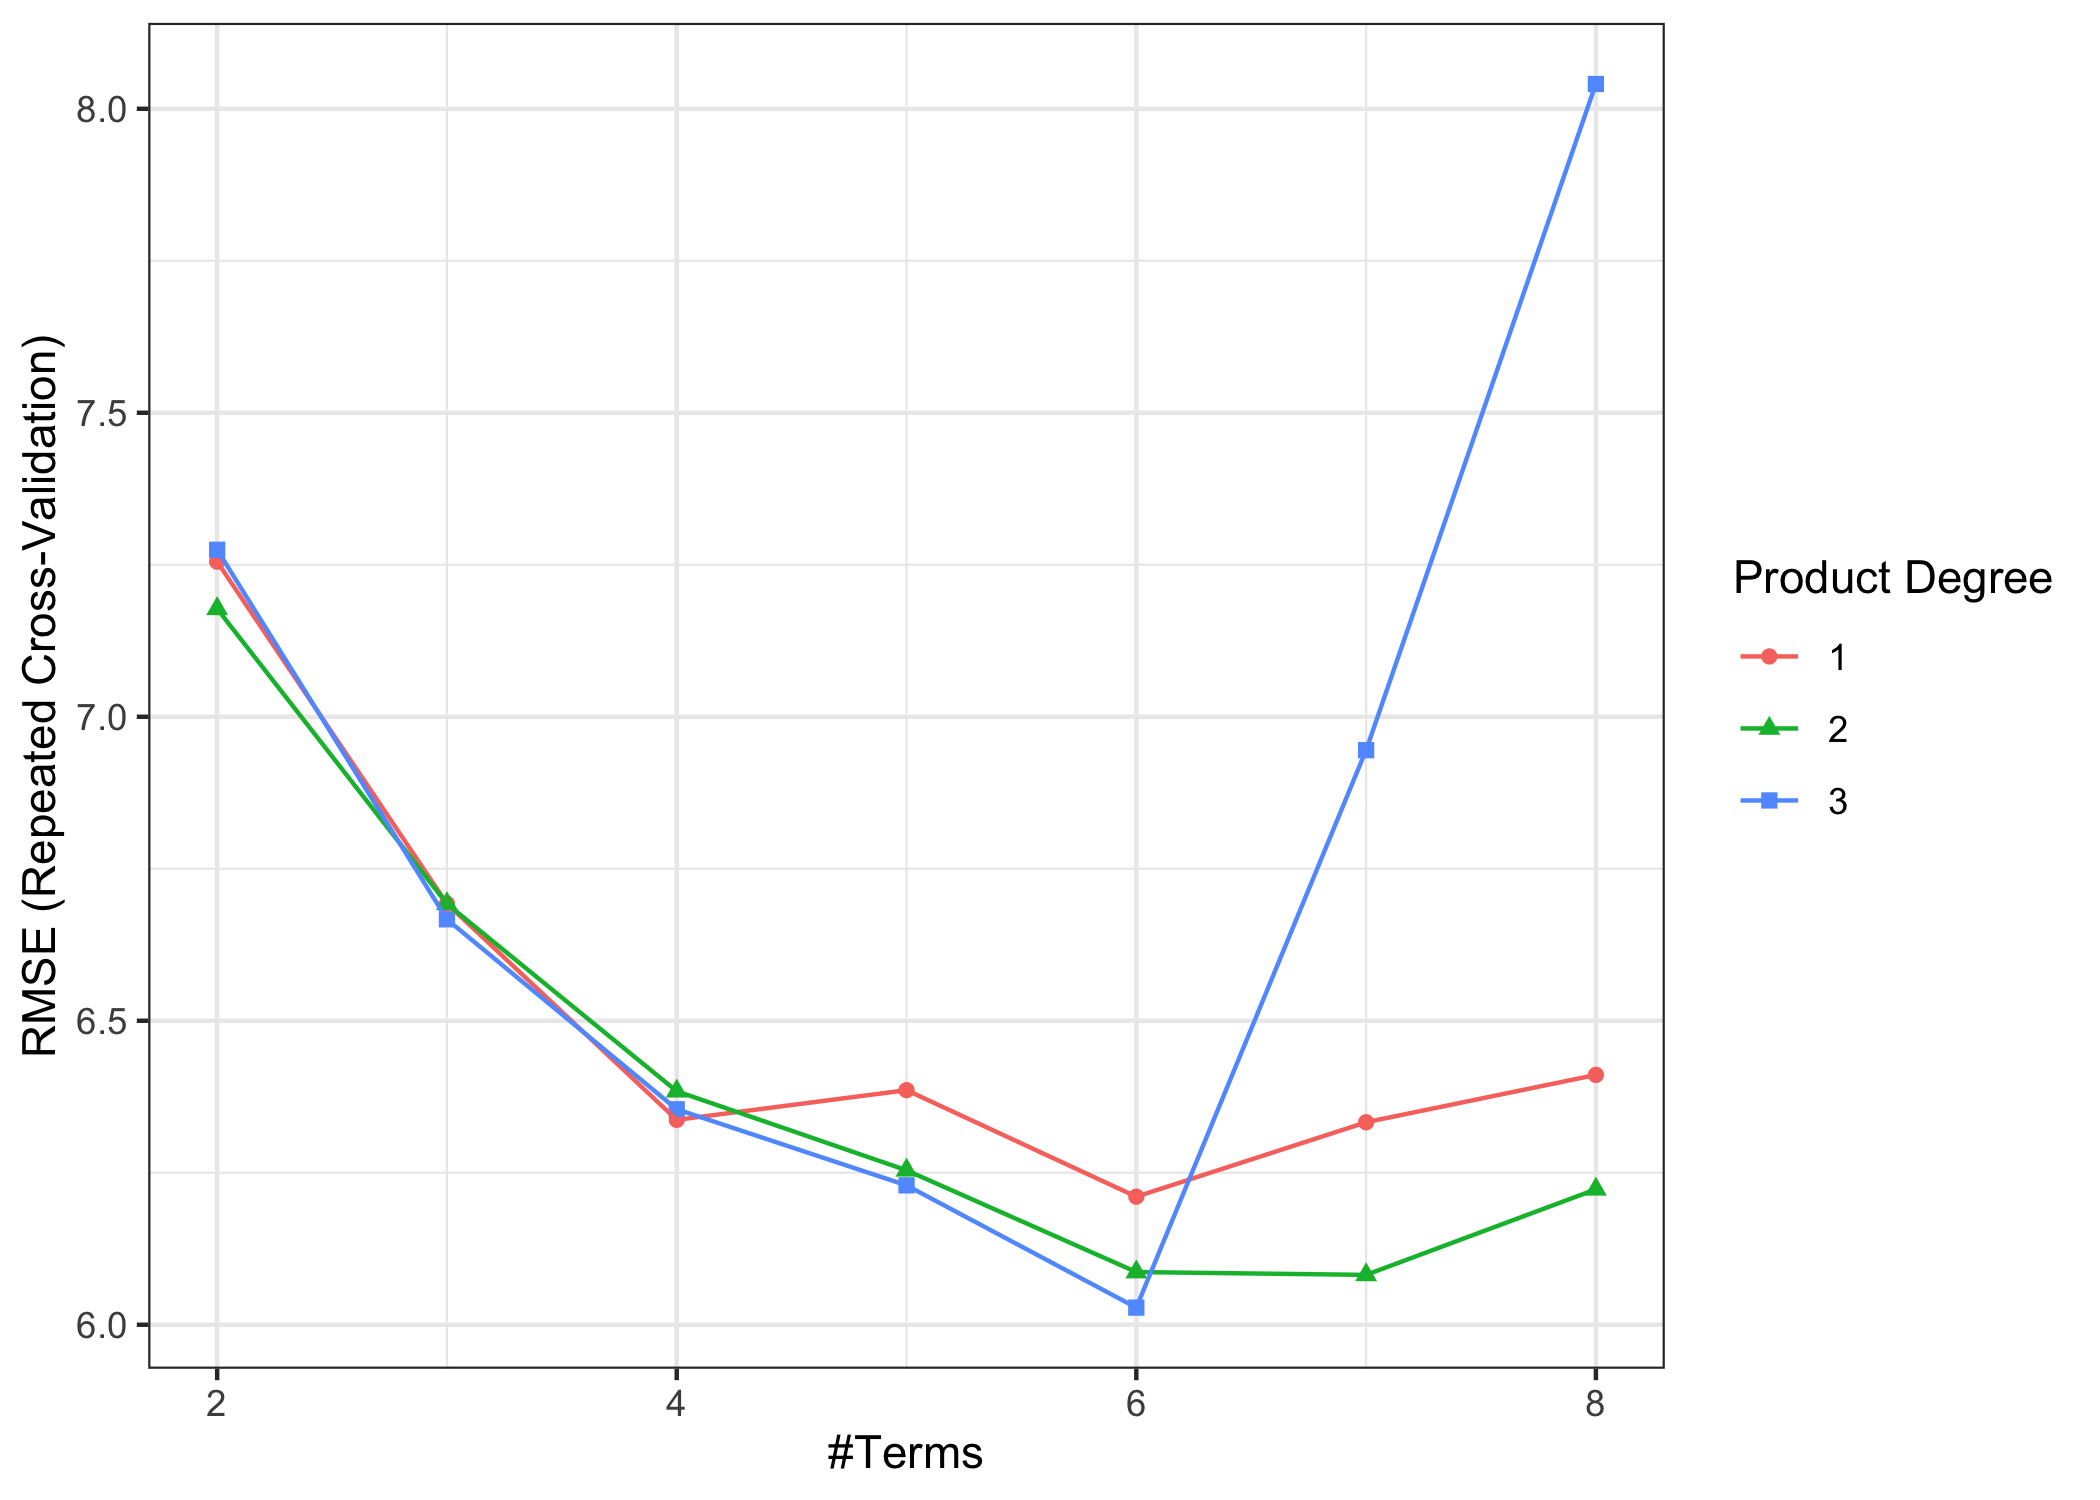
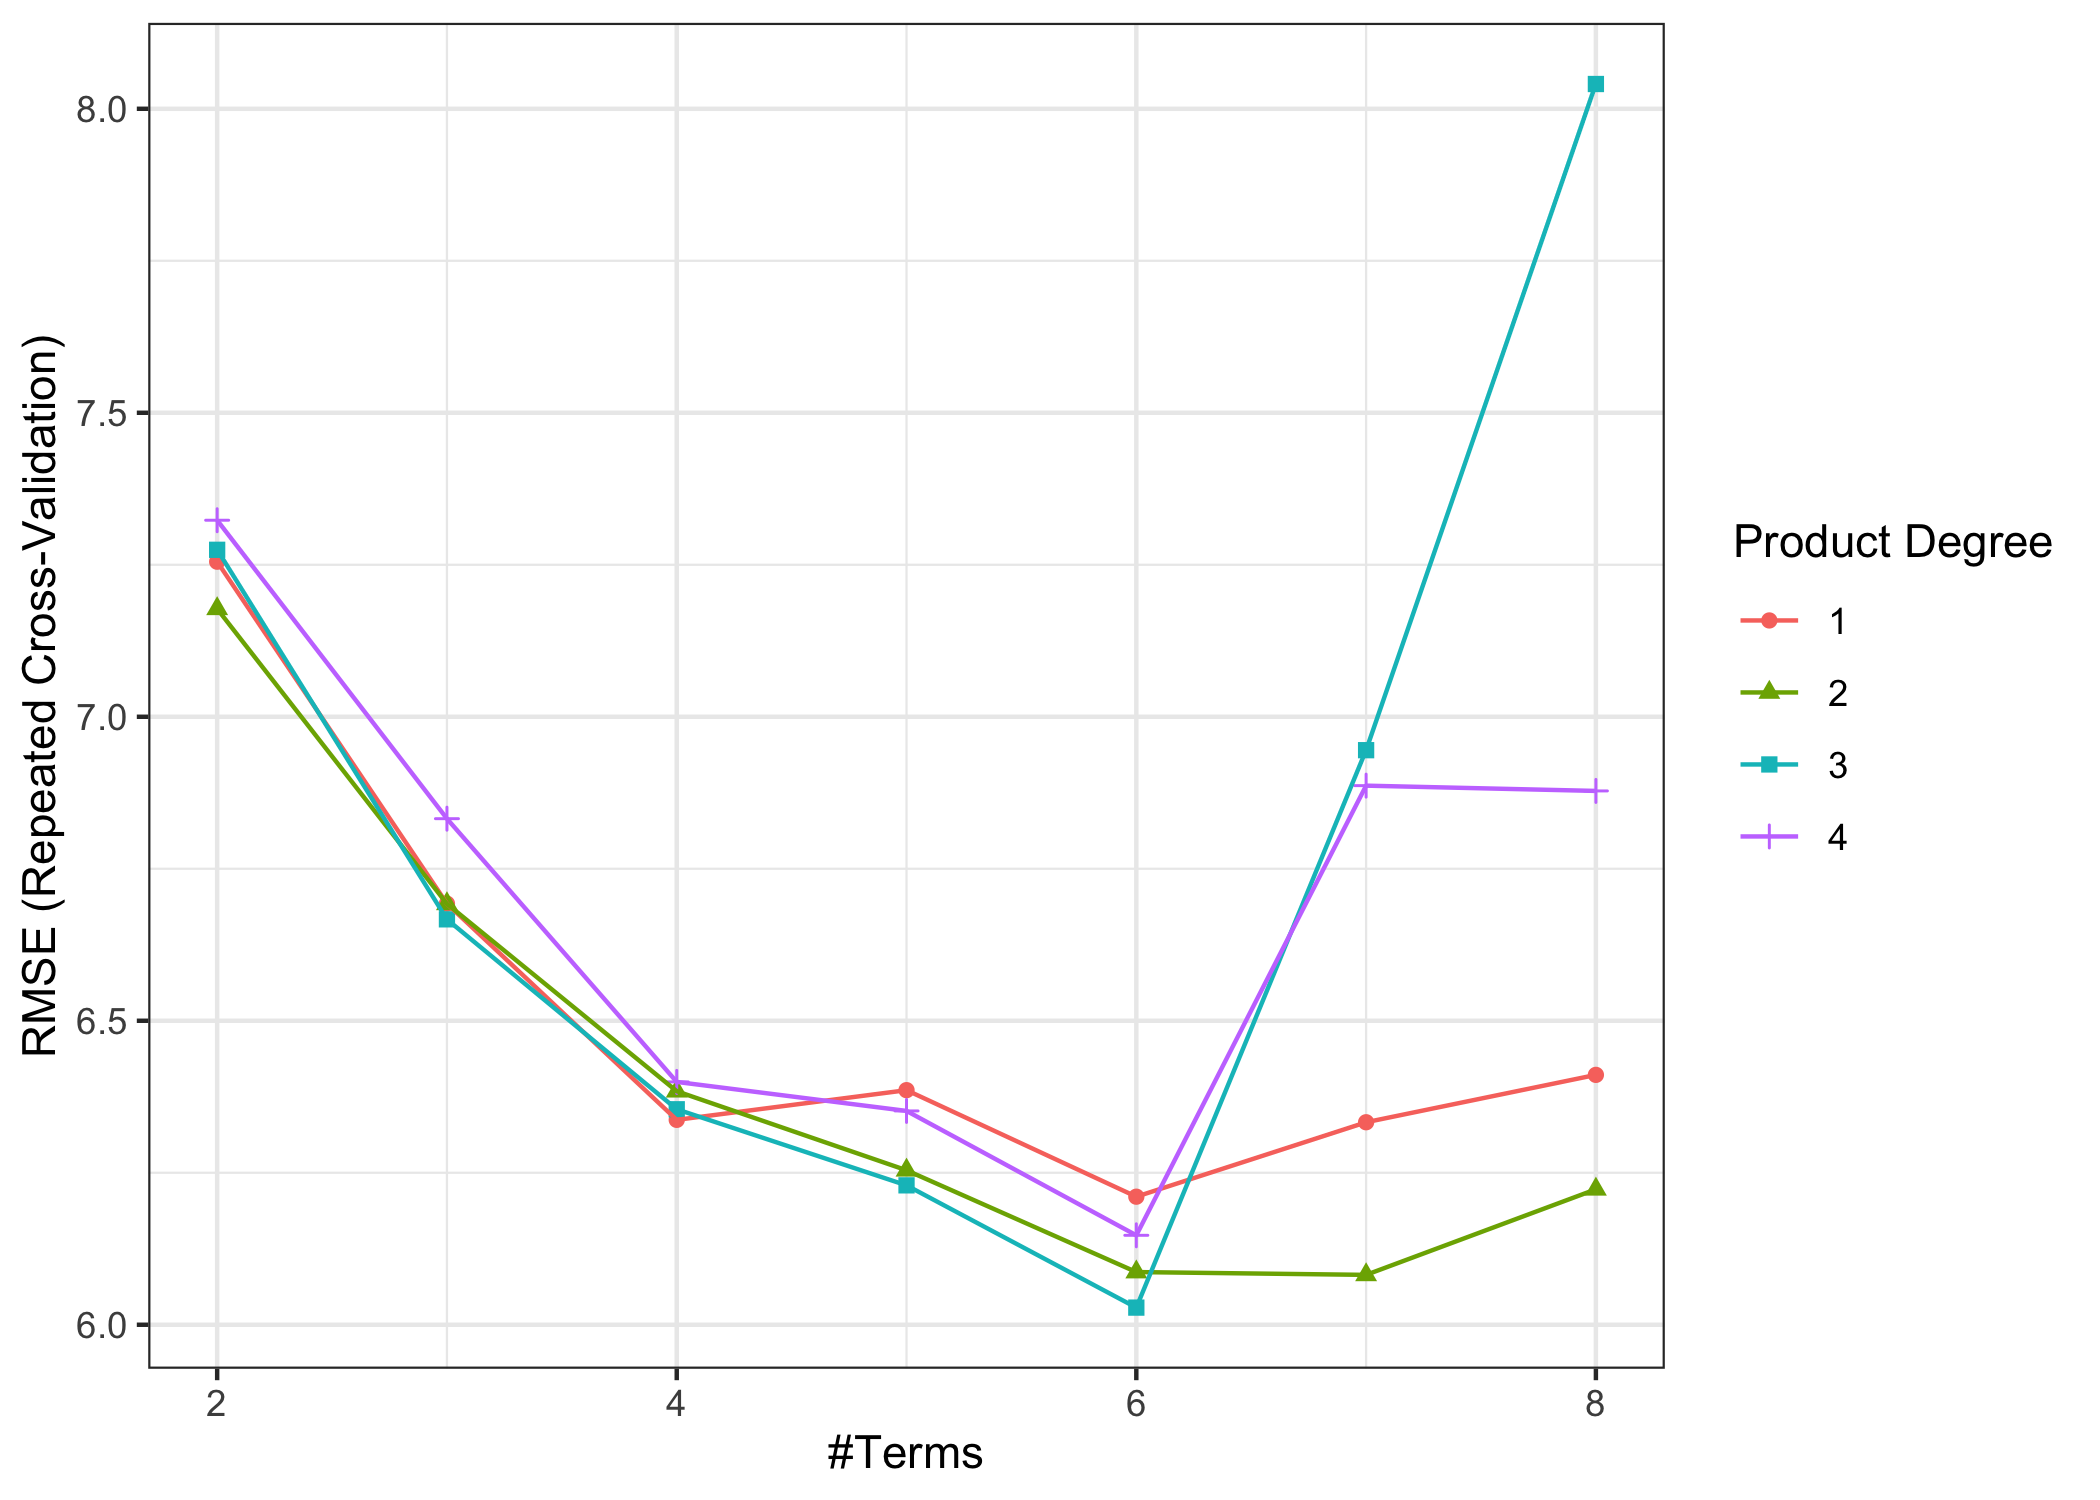
former model final

diff --git a/former_models.md b/former_models.md
@@ -78,16 +78,17 @@ There is no tuning parameter for standard least-squared model.
 The elastic-net model has two parameter, which are alpha (compromise
 between LASSO and ridge) and lambda (the penalty term limits the number
 or magnitude of predictor coefficients). The elastic-net model reached
-its best tune at *α* = 1 (i.e. LASSO model) and lambda = 0.27.
+its best tune at *α* = 0.6 and lambda = 0.44.
 
-    ## [1] 0.4412332
+    ##     alpha    lambda
+    ## 637   0.6 0.4412332
 
 ![](former_models_files/figure-gfm/elastic%20net-1.png)<!-- -->
 
 \#\#\#(c) Principle Component Regression
 
 The tuning parameter of PCR is the number of predictors included in the
-final model. There are 5 components included in the model with minimum
+final model. There are 12 components included in the model with minimum
 RMSE.
 
     ##    ncomp
@@ -144,7 +145,7 @@ statistically significant predictors at 0.0001 significant level.
 The tuning parameter for MARS is `nprune` and `degree`. When attempting
 to fit the MARS model, we noticed that the RMSE increased drastically
 when degree is over 3 and nprune is over 8. Therefore, we would choose
-the range of degrees as 1:3 and range of nprune as 2:8. When number of
+the range of degrees as 1:4 and range of nprune as 2:8. When number of
 terms is 6 and product degree is 2, MARS model reached its best tune and
 RMSE is lowest. The MARS model selected 6 of 69 terms, and 6 of 54
 predictors. And the top 3 important predictors are: `age`, `minute`,
@@ -196,6 +197,3 @@ RMSE of Different Models
 | RMSE | 6.66   | 6.04       | 5.46 | 6.84 | 5.16 |
 
 RMSE of Different Models on Test Set
-
-![Figure A1](report_figures/appendixA_figure1.png) ![Figure A2]()
-\[Figure \]
